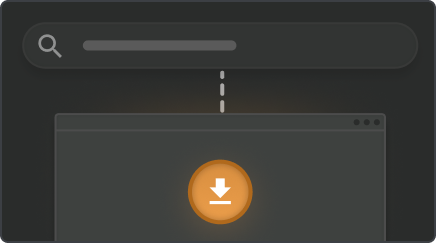
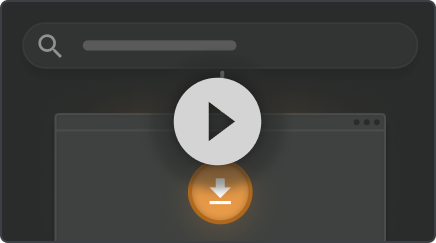
Finalized oboarding dashlet

Changed region(s): [[0.3876, 0.2881, 0.6261, 0.8066]]

diff --git a/src/extensions/onboarding_dashlet/Dashlet.tsx b/src/extensions/onboarding_dashlet/Dashlet.tsx
@@ -1,9 +1,14 @@
 import React from 'react';
 import { Button } from 'react-bootstrap';
+import { useTranslation } from 'react-i18next';
 import { useSelector } from 'react-redux';
+import { useDispatch } from 'react-redux';
+import { setOpenMainPage } from '../../actions';
 import Dashlet from '../../controls/Dashlet';
 import Icon from '../../controls/Icon';
 import { IState } from '../../types/api';
+import { setDashletEnabled } from '../dashboard/actions';
+import { resetSteps } from './actions';
 import { IStep } from './steps';
 
 export type onCardClick = (payload: onCardClickPayload) => void;
@@ -62,10 +67,9 @@ function OnBoardingCard(props: {
 
 function CounterWithCheckbox(props: { isChecked: boolean, count: number }) {
   const { count, isChecked } = props;
-  const className = `onboarding-card-counter ${
-      isChecked
-      ? 'onboarding-card-counter--checked'
-      : ''}`;
+  const className = `onboarding-card-counter ${isChecked
+    ? 'onboarding-card-counter--checked'
+    : ''}`;
 
   return (
     <span className={className}>
@@ -93,6 +97,12 @@ function OnBoardingDashletWrapper(props: {
   const isFullyCompleted =
     steps.length === completedStepsValues.length
     && completedStepsValues.every((x) => x === true);
+
+  const resetState = () => {
+    steps.map((x) => x.id).forEach((x) => {
+
+    });
+  }
 
   return (
     <>
@@ -127,45 +137,49 @@ function OnBoardingDashletWrapper(props: {
   );
 }
 
-function OnboardingCompletedCard(props: { title, desc, icon, button }) {
-  return (
-    <div className='onboarding-card onboarding-card--completed'>
-      <div className='onboarding-completed-card-header'>
-        <Icon
-          className='onboarding-completed-card-header-icon'
-          name={props.icon}
-        />
-        <span className='onboarding-completed-card-header-text'>
-          {props.title}
-        </span>
-      </div>
-      <span className='onboarding-completed-card-desc'>
-        {props.desc}
-      </span>
-      <Button className='onboarding-completed-card-button'>
-        {props.button}
-      </Button>
-    </div>
-  );
-}
-
 function CompletedOnBoardingDashlet() {
+  const { t } = useTranslation();
+  const dispatch = useDispatch();
+
+  const openMods = () => {
+    dispatch(setOpenMainPage('Mods', undefined));
+  };
+
+  const closeDashlet = () => {
+    dispatch(setDashletEnabled('On Boarding', false));
+  };
+
+  const resetAllSteps = () => {
+    dispatch(resetSteps());
+  };
+
   return (
     <Dashlet title='' className='dashlet-onboarding-completed'>
       <div className='onboarding-completed-header'>
-        <h2>
+        <h1>
           🎉 Congratulation! You've made it!
-        </h2>
+        </h1>
         <h4>
           Now you are all setup to enjoy Vortex and start modding!
         </h4>
       </div>
       <div className='onboarding-completed-body'>
-        <OnboardingCompletedCard title={'Say thank you'} icon='endorse-yes' button={'Endorse'} desc='Show your appreciation to the authors by endorsing their mods.'/>
-        <OnboardingCompletedCard title={'Check out collections'} icon='collection' button={'View Collections'} desc='Collections allow you to download large combinations of mods that work together'/>
+        <div className='onboarding-completed-body-button'>
+          <Button
+            id='btn-more-mods'
+            onClick={openMods}
+          >
+            <Icon name={'nexus'} />
+            {t('Get more mods')}
+          </Button>
+        </div>
+        <div className='onboarding-completed-body-links'>
+          <a onClick={resetAllSteps}>Watch again</a>
+          <a onClick={closeDashlet}>Hide</a>
+        </div>
       </div>
     </Dashlet>
   );
 }
-
+7
 export default OnBoardingDashletWrapper;

diff --git a/src/extensions/onboarding_dashlet/steps.ts b/src/extensions/onboarding_dashlet/steps.ts
@@ -2,7 +2,7 @@ export const STEPS: IStep[] = [
   {
     title: 'Manage your game',
     desc: 'Learn how to add games for Vortex to manage.',
-    lenght: '1:10',
+    lenght: '2:30',
     img: 'assets/images/dashlets/add-game.png',
     video: 'https://www.youtube-nocookie.com/embed/qdn4yguKHaY',
     id: 'add-game',
@@ -10,7 +10,7 @@ export const STEPS: IStep[] = [
   {
     title: 'Log in',
     desc: 'Link your Nexus Mods account to Vortex.',
-    lenght: '3:20',
+    lenght: '2:32',
     img: 'assets/images/dashlets/login-link.png',
     video: 'https://www.youtube-nocookie.com/embed/Coui1FvFK70',
     id: 'login-and-link',
@@ -18,7 +18,7 @@ export const STEPS: IStep[] = [
   {
     title: 'Install Tools',
     desc: 'Install any required tools that will allow you to mod your game. ',
-    lenght: '1:20',
+    lenght: '3:57',
     img: 'assets/images/dashlets/install-tools.png',
     video: 'https://www.youtube-nocookie.com/embed/gz99xZGA0LA',
     id: 'install-tools',
@@ -26,7 +26,7 @@ export const STEPS: IStep[] = [
   {
     title: 'Download Mods',
     desc: 'Download and install the first of many mods for your game. ',
-    lenght: '2:20',
+    lenght: '2:58',
     img: 'assets/images/dashlets/add-mods.png',
     video: 'https://www.youtube-nocookie.com/embed/UvYiO3__U5Y',
     id: 'download-mods',

diff --git a/src/stylesheets/vortex/dashlet.scss b/src/stylesheets/vortex/dashlet.scss
@@ -409,7 +409,7 @@
   flex-direction: column;
   align-items: center;
 
-  h2, h4 {
+  h1, h4 {
     margin: 8px 0px;
   }
 }
@@ -417,14 +417,17 @@
 .dashlet.dashlet-onboarding-completed {
   display: flex;
   flex-direction: column;
+  align-items: center;
+  justify-content: center;
 }
 
 .onboarding-completed-body {
   display: flex;
-  flex: 1 1 100%;
-  flex-direction: row;
+  flex-direction: column;
   justify-content: center;
-  gap: 42px;
+  align-items: center;
+  gap: 16px;
+  margin-top: 16px;
 }
 
 .onboarding-completed-card-header {
@@ -453,4 +456,14 @@
 .onboarding-completed-card-button {
   text-transform: uppercase;
   font-size: 1.1em;
+}
+
+.onboarding-completed-body-links a:first-child {
+  margin-right: 8px;
+  border-right: 1px solid #b3b3b3;
+  padding-right: 8px;
+}
+
+.onboarding-completed-body-links {
+    margin-right: 12px;
 }

diff --git a/src/extensions/onboarding_dashlet/index.ts b/src/extensions/onboarding_dashlet/index.ts
@@ -1,15 +1,9 @@
 import { IExtensionContext } from '../../types/IExtensionContext';
-
-import Dashlet, { onCardClickPayload } from './Dashlet';
-
-import { Overlay } from './views/Overlay';
-
-import { TFunction } from 'i18next';
-
-import settingsReducer from './reducers';
-
-import { STEPS } from './steps';
 import { dismissOverlay } from '../instructions_overlay/actions';
+import Dashlet, { onCardClickPayload } from './Dashlet';
+import settingsReducer from './reducers';
+import { STEPS } from './steps';
+import { Overlay } from './views/Overlay';
 
 function init(context: IExtensionContext): boolean {
   context.registerReducer(['settings', 'onboardingsteps'], settingsReducer);

diff --git a/src/extensions/onboarding_dashlet/reducers.ts b/src/extensions/onboarding_dashlet/reducers.ts
@@ -9,9 +9,9 @@ import * as actions from './actions';
 const settingsReducer: IReducerSpec = {
   reducers: {
     [actions.completeStep as any]: (state, payload) => setSafe(state, ['steps', payload], true),
+    [actions.resetSteps as any]: (state) => setSafe(state, ['steps'], {}),
   },
   defaults: {
-    completeAll: false,
     steps: {},
   },
 };

diff --git a/src/extensions/onboarding_dashlet/actions.ts b/src/extensions/onboarding_dashlet/actions.ts
@@ -4,3 +4,4 @@ import safeCreateAction from '../../actions/safeCreateAction';
  * completes a step
  */
 export const completeStep = safeCreateAction('COMPLETE_STEP', step => step);
+export const resetSteps = safeCreateAction('RESET_STEPS');
